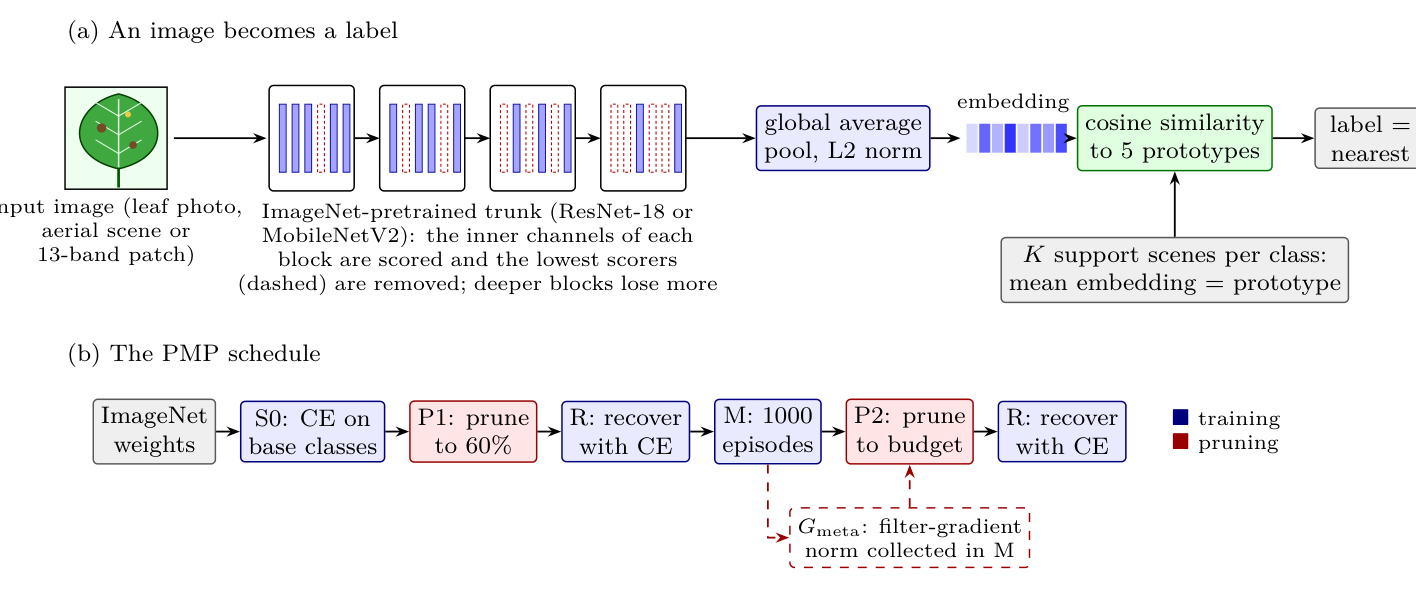
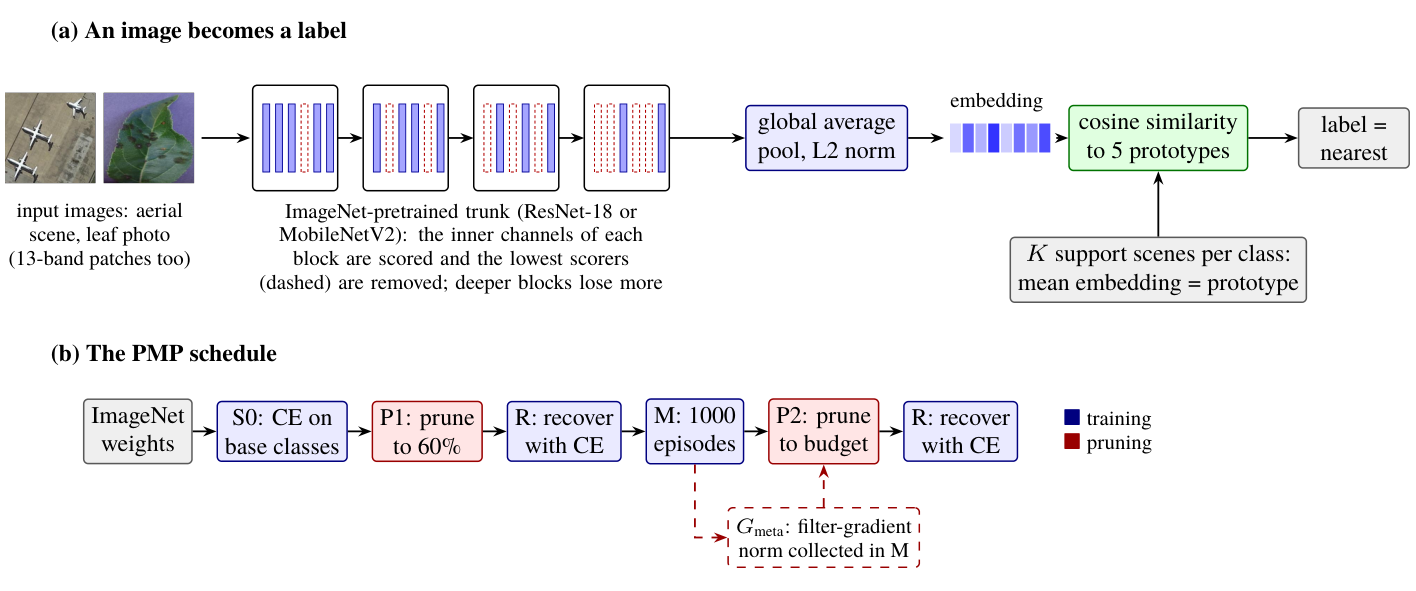
Update title and figures

diff --git a/index.html b/index.html
@@ -1,6 +1,6 @@
 <!doctype html>
 <html lang="en"><head><meta charset="utf-8"><meta name="viewport" content="width=device-width,initial-scale=1">
-<title>Benchmarking Channel Pruning for Few-Shot Earth Observation</title>
+<title>Which Channels to Keep? Pruning for Few-Shot Earth Observation</title>
 <meta name="description" content="A class-held-out, paired-episode benchmark of channel pruning for few-shot aerial and Sentinel-2 scene classification.">
 <style>
 :root{--bg:#fbfbfa;--fg:#1d2330;--mut:#5b6475;--card:#fff;--line:#e3e6ec;--acc:#128a5a;--warn:#eb6834;--blue:#2a5fd0}
@@ -19,7 +19,7 @@ ol li,ul li{margin:6px 0;max-width:800px}code{background:var(--card);border:1px 
 footer{color:var(--mut);font-size:14px;margin-top:48px;border-top:1px solid var(--line);padding-top:16px}
 </style></head><body><main>
 <header><span class="tag">Under double-blind review &middot; CV4EO @ WACV 2027</span>
-<h1>Benchmarking Channel Pruning for Few-Shot Earth Observation</h1>
+<h1>Which Channels to Keep? Pruning for Few-Shot Earth Observation</h1>
 <p class="sub">We hold classes out, repeat the class split many times and give every method the same test episodes, then ask which channels of a pretrained network are worth keeping when it must recognise new aerial and Sentinel-2 scene types from a few examples.</p></header>
 
 <h2>Results at a glance</h2>
